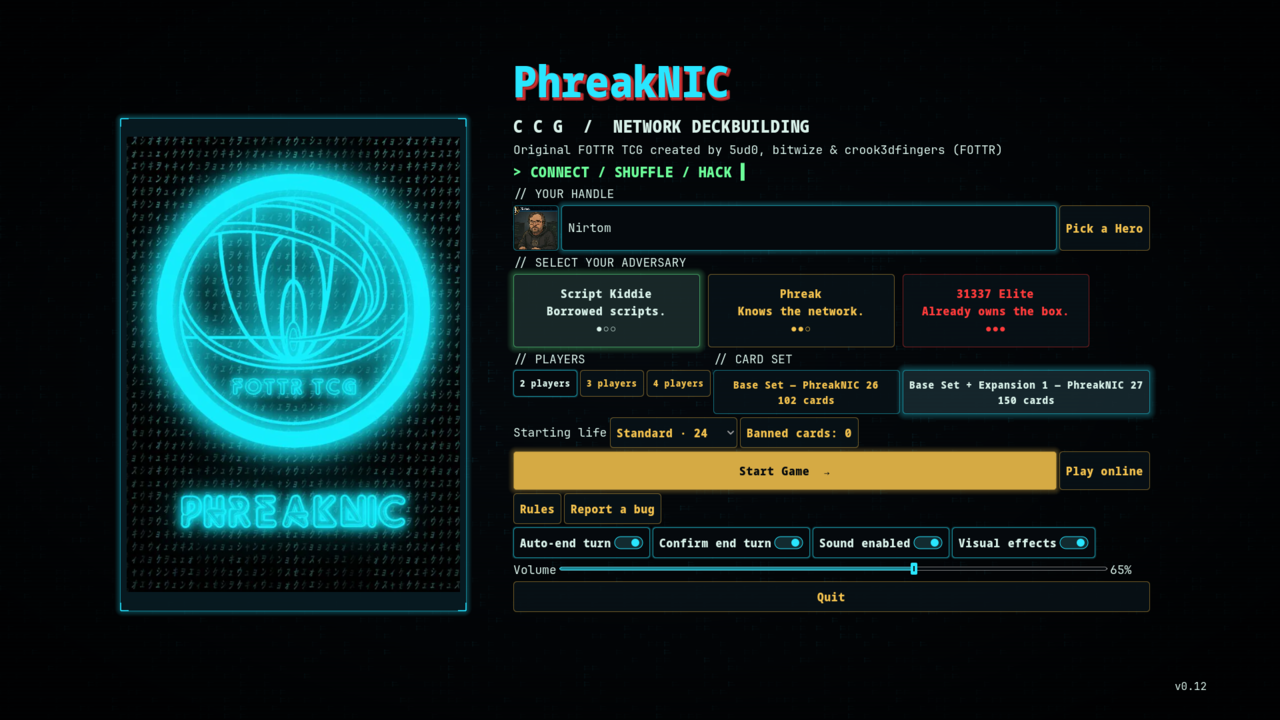
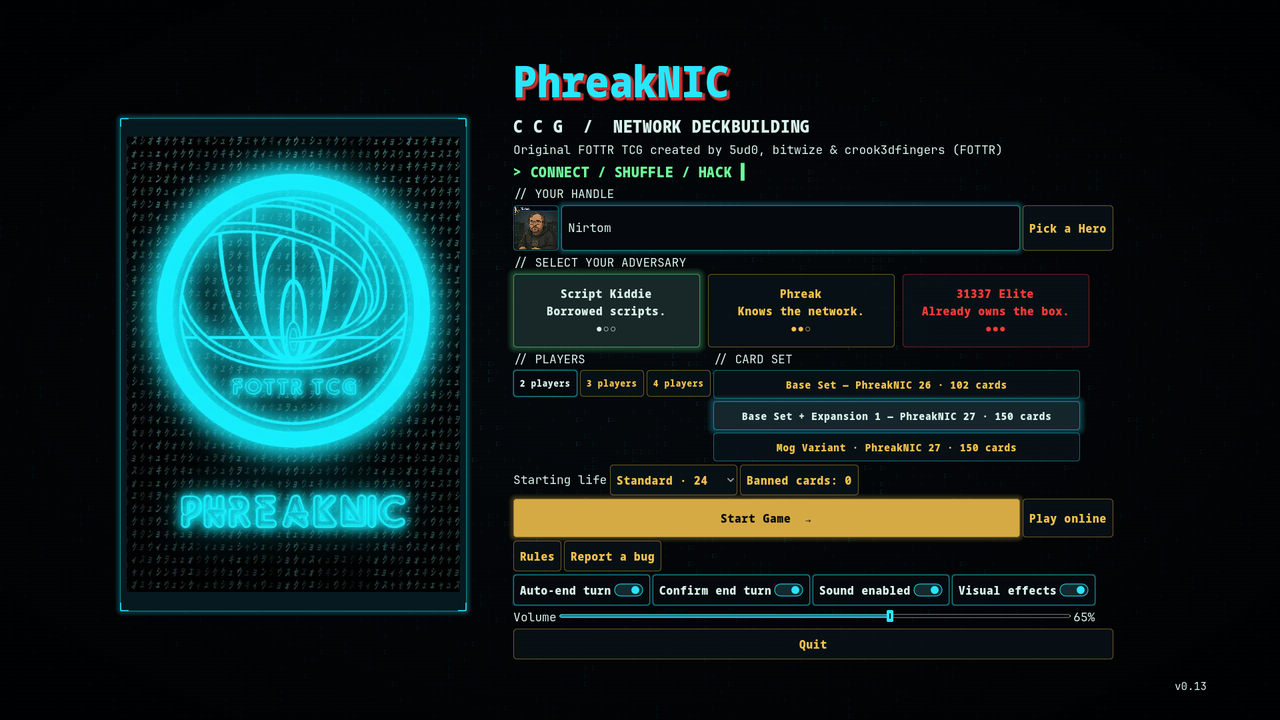
v0.13: release (version bump, screenshots)

Changed region(s): [[0.375, 0.4889, 0.9062, 0.9167], [0.7812, 0.275, 0.9062, 0.3667]]

diff --git a/README.md b/README.md
@@ -1,6 +1,6 @@
 # PhreakNIC CCG
 
-A digital version of the **FOTTR TCG: PhreakNIC** deck-building card game, built with Godot 4.7. Version **0.12**.
+A digital version of the **FOTTR TCG: PhreakNIC** deck-building card game, built with Godot 4.7. Version **0.13**.
 
 Original FOTTR TCG created by 5ud0, bitwize & crook3dfingers (FOTTR).
 
